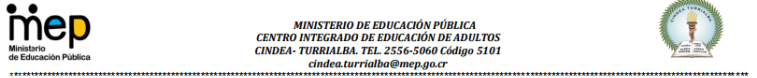
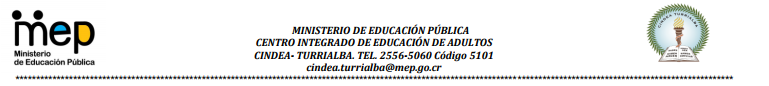
TESTING 3

diff --git a/reporter/Enrollment.php b/reporter/Enrollment.php
@@ -10,7 +10,7 @@ class PDF extends FPDF {
     // Cabecera de p�gina
     function Header() {
         // Logo
-        $this->Image('../resource/images/header.png', 5, 1, 200);
+        $this->Image('../resource/images/header.png', 7, 5, 200);
         // Salto de l�nea
         $this->Ln(20);
     }
@@ -507,7 +507,7 @@ foreach ($students as $student) {
     $pdf->SetFont('Arial', 'B', 10);
     $pdf->Cell(-113, 5, utf8_decode($student->getPersonFirstName() . " " . $student->getPersonFirstlastname() . " " . $student->getPersonSecondlastname()), 0, 0, 0);
     $pdf->SetFont('Arial', '', 10);
-    $pdf->Cell(0, 5, utf8_decode(" Fecha nacimiento: " . $date->format("d-m-Y")), 0, 1);
+    $pdf->Cell(0, 5, utf8_decode("      Fecha nacimiento: " . $date->format("d-m-Y")), 0, 1);
 
     $phones = $phoneBusiness->getAllPhone($id);
     $txtPhones = "";
@@ -535,7 +535,6 @@ foreach ($students as $student) {
     $pdf->SetFont('Arial', '', 10);
 
 //HACER IF DE ADECUACIÓN
-
     switch ($student->getStudentAdecuacy()) {
         case 0:
             $pdf->Cell(0, 10, utf8_decode("Adecuación Curricular: No (X) Sí ( ) Tipo: _____________________________ "), 0, 1);
@@ -597,7 +596,7 @@ foreach ($students as $student) {
 
     $pdf->Ln();
 
-    $pdf->Cell(0, 10, utf8_decode("¿Matriculó algún curso libre?: No ( ) Si ( ) ¿Cuál?:_________________________________________________"), 0, 1);
+    $pdf->Cell(0, 10, utf8_decode("¿Matriculó algún curso opcional?: No ( ) Si ( ) ¿Cuál?:_________________________________________________"), 0, 1);
 
     $pdf->SetFont('Arial', 'B', 9);
     $pdf->Cell(0, 5, utf8_decode("Funcionario que realiza la matrícula: __________________________________________                          Sello "), 0, 1);
